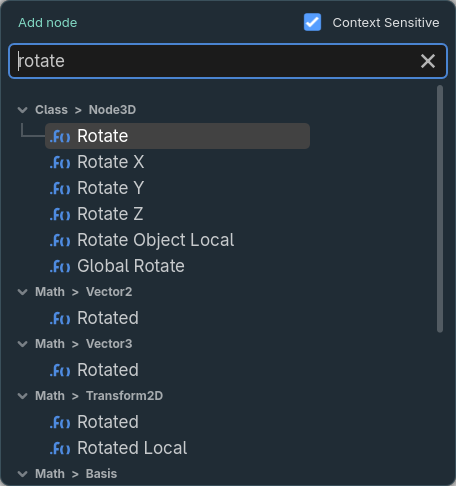
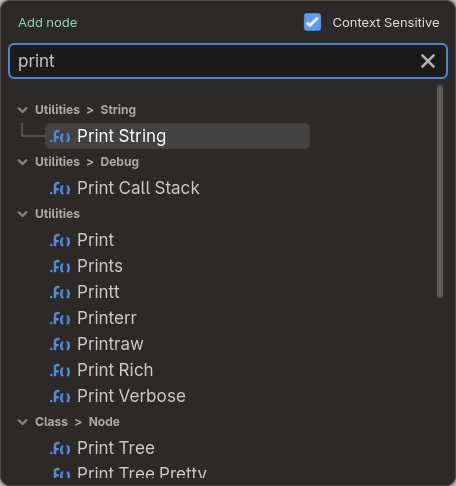
Warm the Schematic editor and give its canvas a quiet line grid

diff --git a/README.md b/README.md
@@ -35,7 +35,7 @@ with the reason and the line, and nothing changes. Comments written by hand are 
 
 ## Find any node by typing
 
-![The action menu filtered by the word rotate](docs/images/action_menu.png)
+![The action menu filtered by the word print](docs/images/action_menu.png)
 
 Right-click, or drag off a pin, and type. The menu lists every function of every Godot class, your own
 functions, variables, macros and libraries, filtered to what fits the pin you dragged from. Unreal names work
